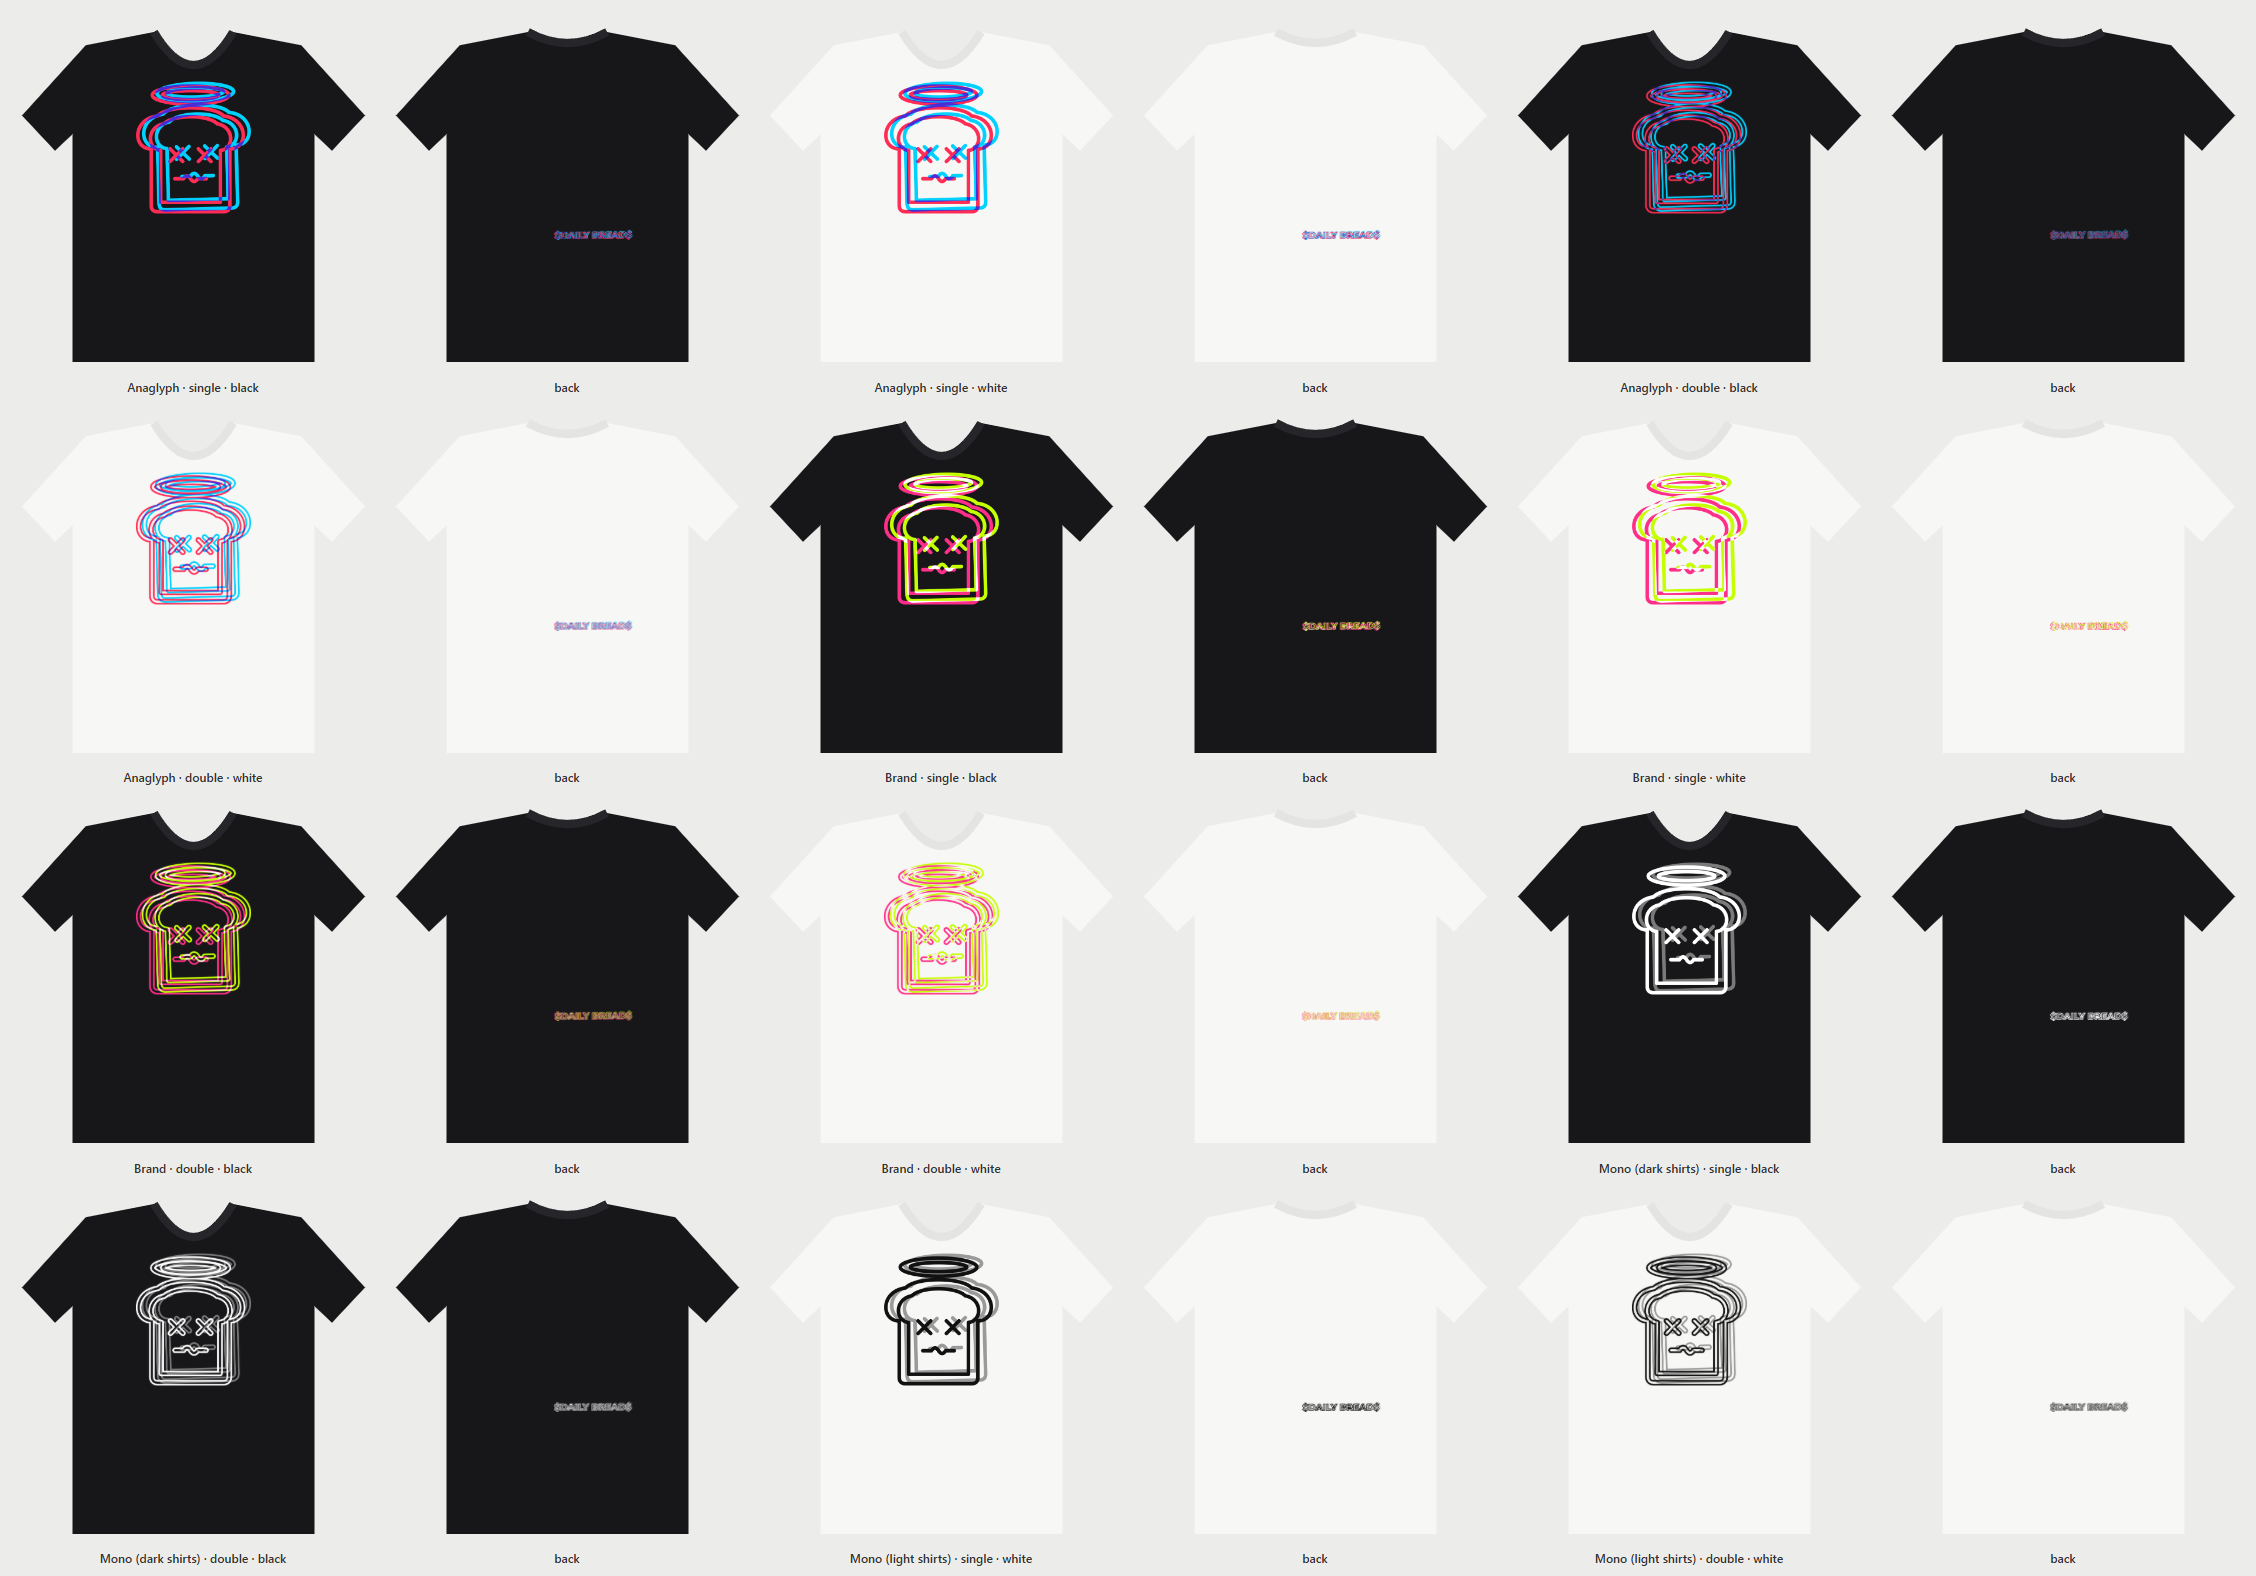
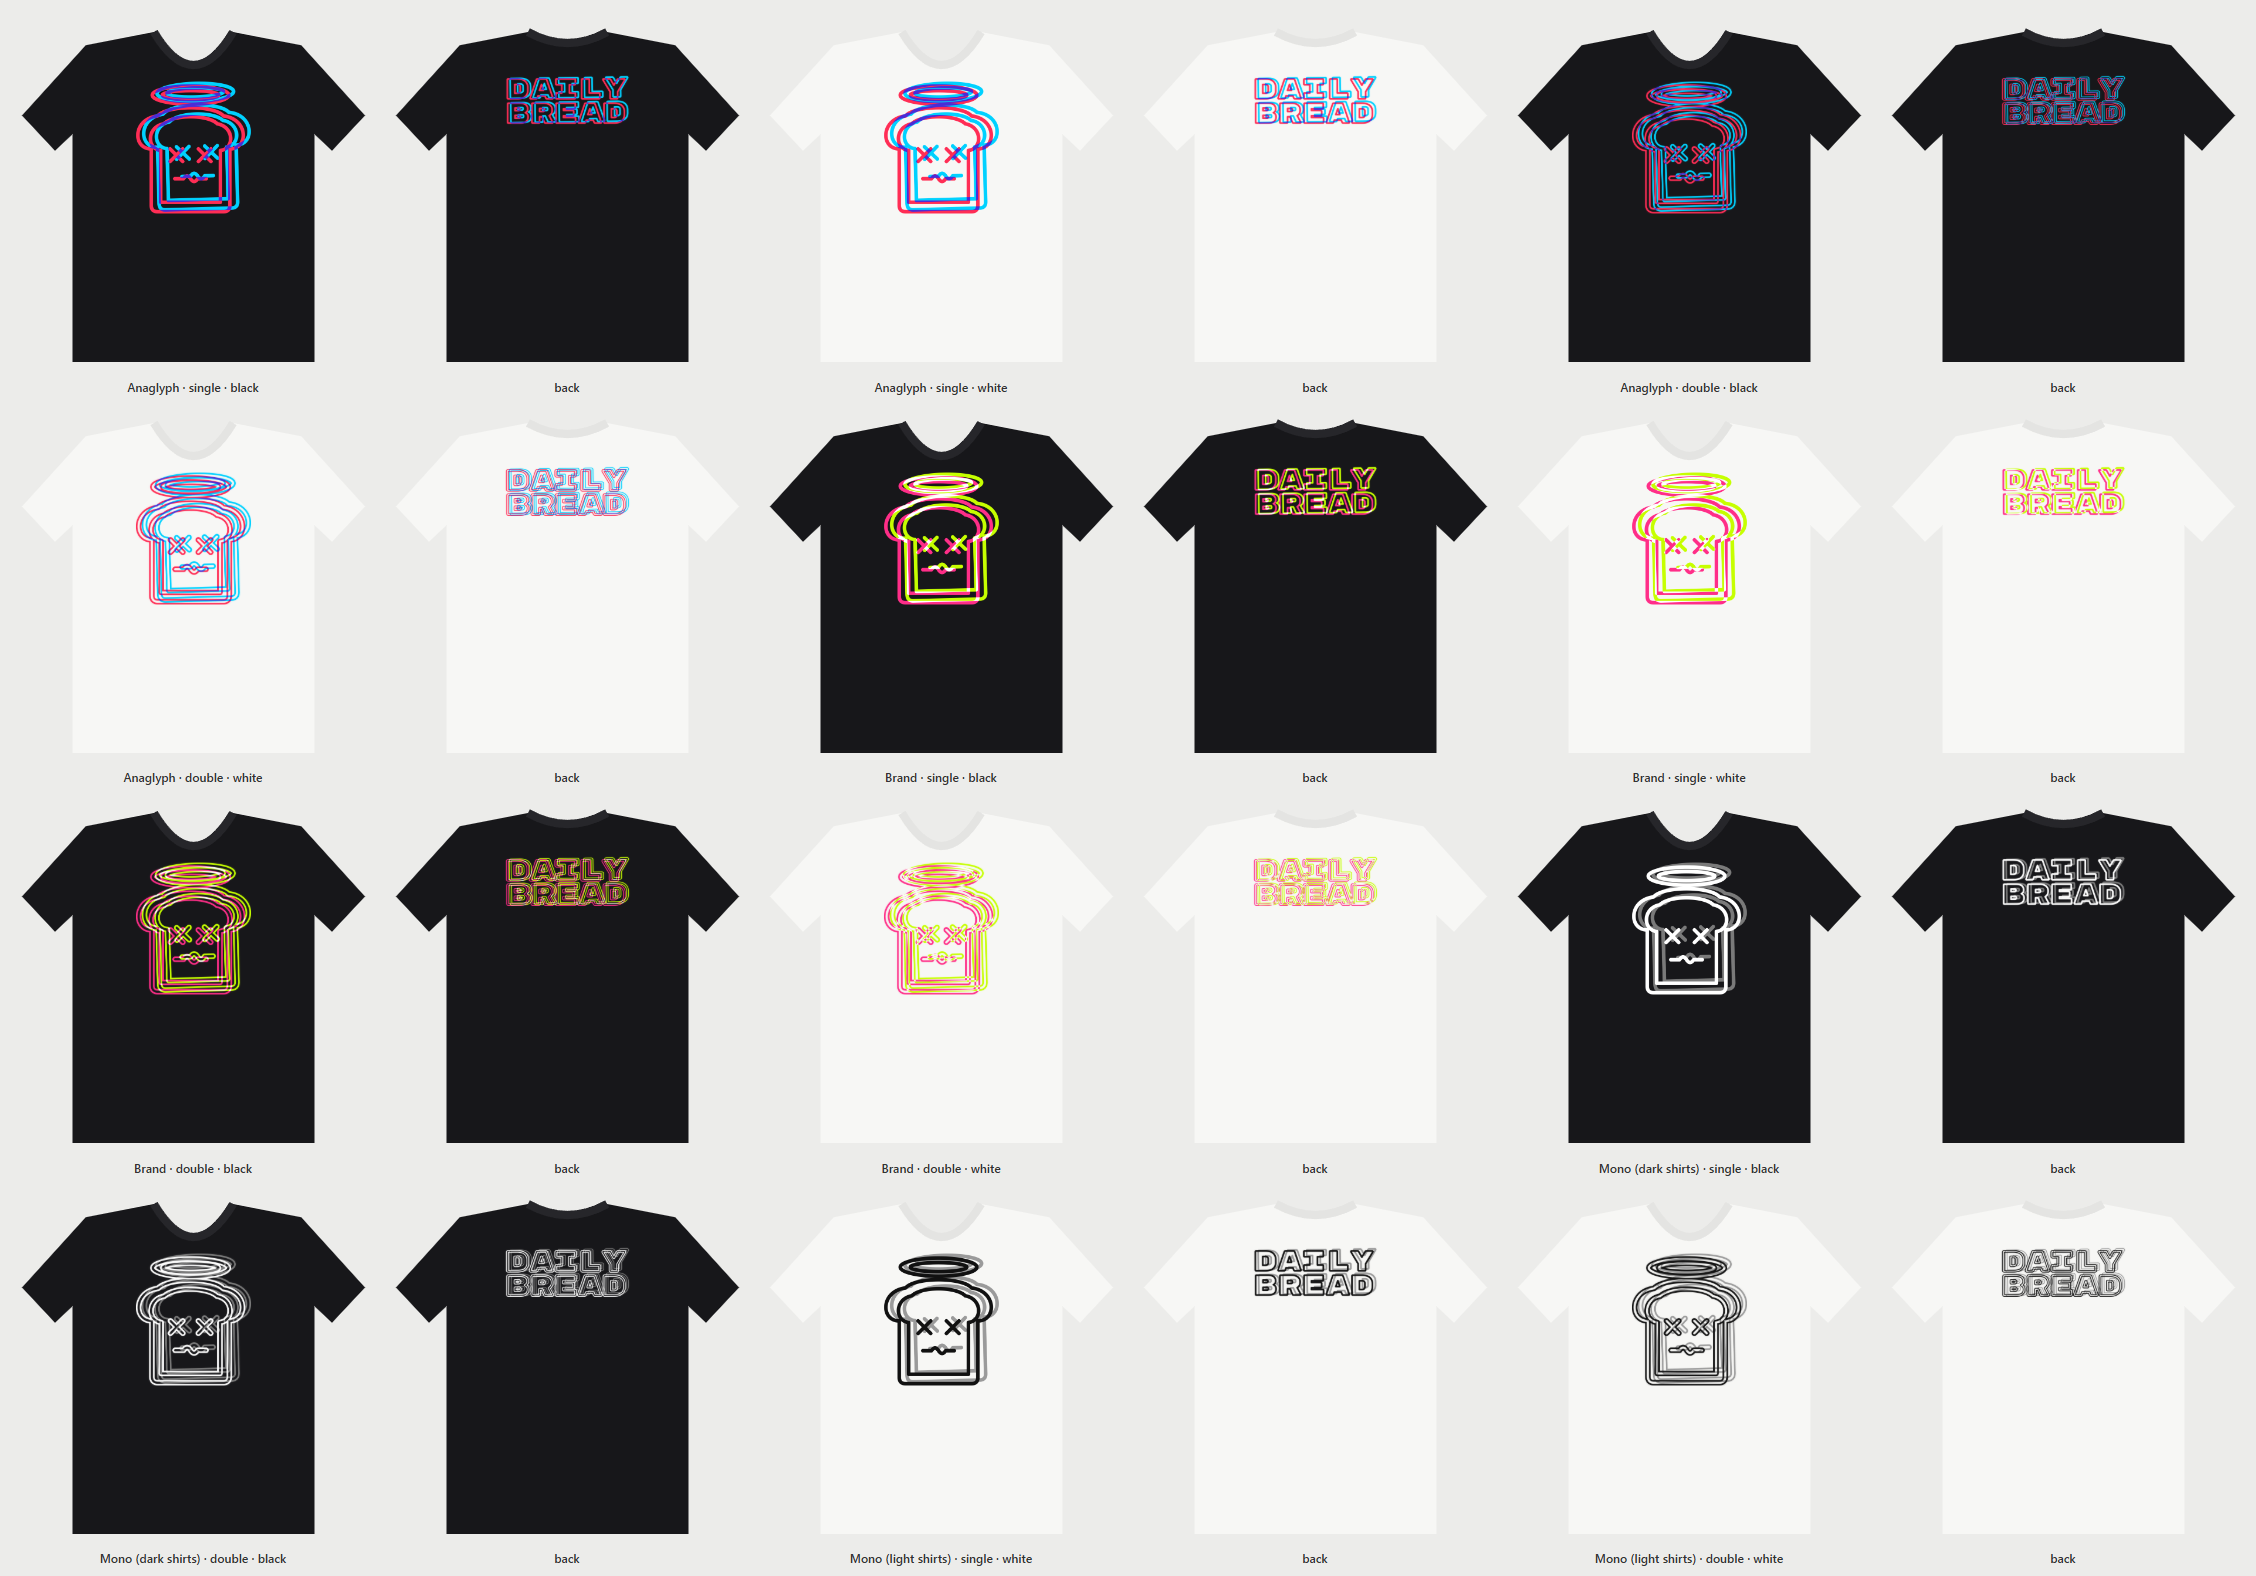
Blurry: large DAILY / BREAD block back print
In addition to the front: DAILY over BREAD in Rubik Mono One block letters as
double-vision line art (same ghost, colors and line style), about 11.1 x 4.4 in
across the upper back, for every colorway and style (back-large.png). The small
bottom-right back stays as an alternate. Notes updated.

diff --git a/tshirts/blurry/blurry.js b/tshirts/blurry/blurry.js
@@ -45,8 +45,8 @@ const svgOf = (inner, size) => `<svg xmlns="http://www.w3.org/2000/svg" viewBox=
   const { chromium } = require(process.env.PLAYWRIGHT_PATH || 'playwright');
   const browser = await chromium.launch(process.env.BROWSER_CHANNEL ? { channel: process.env.BROWSER_CHANNEL } : {});
   const page = await browser.newPage();
-  await page.setContent('<link rel="stylesheet" href="https://fonts.googleapis.com/css2?family=Montserrat:wght@800&display=block"><body></body>');
-  await page.evaluate(async () => { await document.fonts.load('800 100px "Montserrat"', '$DAILY BREAD$'); });
+  await page.setContent('<link rel="stylesheet" href="https://fonts.googleapis.com/css2?family=Montserrat:wght@800&family=Rubik+Mono+One&display=block"><body></body>');
+  await page.evaluate(async () => { await document.fonts.load('800 100px "Montserrat"', '$DAILY BREAD$'); await document.fonts.load('100px "Rubik Mono One"', 'DAILYBREAD'); });
   const root = path.join(__dirname, 'files');
   const sizes = {};
 
@@ -116,7 +116,37 @@ const svgOf = (inner, size) => `<svg xmlns="http://www.w3.org/2000/svg" viewBox=
       return { png: f.toDataURL('image/png'), w: art.width, h: art.height };
     }, { col, s, G: GHOST, DPI });
     fs.writeFileSync(path.join(out, 'back.png'), setDpi(Buffer.from(back.png.split(',')[1], 'base64'), true));
-    sizes[id] = { front: { wIn: +(front.w / DPI).toFixed(2), hIn: +(front.h / DPI).toFixed(2) }, back: { wIn: +(back.w / DPI).toFixed(2), hIn: +(back.h / DPI).toFixed(2) } };
+    // LARGE BACK (Blurry's back print): DAILY over BREAD in Rubik Mono One (a monospaced block face, so the two
+    // five-letter words make a perfectly justified block), line art with the same doubling, about 11.4 in wide,
+    // centered across the upper back with its top 1 in below the top of the 12 x 16 in back print area.
+    const large = await page.evaluate(({ col, s, G, DPI }) => {
+      const AREA_W = 12 * DPI, AREA_H = 16 * DPI, BLOCK_W = 11.4 * DPI, TOP = 1.0 * DPI;
+      const font = px => `${px}px "Rubik Mono One"`, words = ['DAILY', 'BREAD'];
+      const m = document.createElement('canvas').getContext('2d'); m.font = font(100);
+      const ink = t => { const v = m.measureText(t); return { w: v.actualBoundingBoxLeft + v.actualBoundingBoxRight, l: v.actualBoundingBoxLeft, a: v.actualBoundingBoxAscent }; };
+      const wMax = Math.max(...words.map(t => ink(t).w));
+      const px = 100 * BLOCK_W * 0.94 / wMax;          // leave room for the line and the ghost
+      const cap = ink('D').a * px / 100, gap = cap * 0.22;
+      const u = px / 60;                                 // drawing unit for lines and offsets (matches the front's look)
+      const W = Math.ceil(BLOCK_W + 30 * u), H = Math.ceil(cap * 2 + gap + 30 * u);
+      const mask = ghost => {
+        const c = document.createElement('canvas'); c.width = W; c.height = H; const x = c.getContext('2d');
+        if (ghost) { x.translate(W / 2, H / 2); x.rotate(G.rot * Math.PI / 180 * 0.5); x.translate(-W / 2 + G.dx * u, -H / 2 + G.dy * u); }
+        x.font = font(px); x.textBaseline = 'alphabetic'; x.textAlign = 'center'; x.lineJoin = 'round'; x.strokeStyle = '#fff';
+        const ys = [15 * u + cap, 15 * u + cap * 2 + gap];
+        x.lineWidth = s.w * u; words.forEach((t, i) => x.strokeText(t, W / 2, ys[i]));
+        if (s.cut) { x.globalCompositeOperation = 'destination-out'; x.lineWidth = s.cut * u; words.forEach((t, i) => x.strokeText(t, W / 2, ys[i])); }
+        return c;
+      };
+      let art = trim(compose(mask(false), mask(true), col));
+      if (art.width > BLOCK_W) { const f = BLOCK_W / art.width, r = document.createElement('canvas'); r.width = BLOCK_W; r.height = Math.round(art.height * f); r.getContext('2d').drawImage(art, 0, 0, r.width, r.height); art = r; }
+      const f = document.createElement('canvas'); f.width = AREA_W; f.height = AREA_H;
+      f.getContext('2d').drawImage(art, (AREA_W - art.width) / 2, TOP);
+      return { png: f.toDataURL('image/png'), w: art.width, h: art.height };
+    }, { col, s, G: GHOST, DPI });
+    fs.writeFileSync(path.join(out, 'back-large.png'), setDpi(Buffer.from(large.png.split(',')[1], 'base64'), true));
+    sizes[id] = { front: { wIn: +(front.w / DPI).toFixed(2), hIn: +(front.h / DPI).toFixed(2) }, back: { wIn: +(back.w / DPI).toFixed(2), hIn: +(back.h / DPI).toFixed(2) },
+      backLarge: { wIn: +(large.w / DPI).toFixed(2), hIn: +(large.h / DPI).toFixed(2) } };
   }
   fs.writeFileSync(path.join(root, 'sizes.json'), JSON.stringify(sizes, null, 2) + '\n');
 
@@ -128,7 +158,7 @@ const svgOf = (inner, size) => `<svg xmlns="http://www.w3.org/2000/svg" viewBox=
   for (const [cw, col] of Object.entries(COLORWAYS)) for (const st of Object.keys(STYLES)) for (const sn of col.shirts) {
     const id = `${cw}-${st}`, z = sizes[id].front, [c, collar] = SH[sn];
     cells.push(`<figure style="margin:0;text-align:center;font:600 12px system-ui;color:#333"><svg viewBox="-16.5 -2 33 33.5" width="${33 * PX}" height="${33.5 * PX}"><path d="${TEE}" fill="${c}"/><path d="M-3.6,0 Q0,6 3.6,0" fill="none" stroke="${collar}" stroke-width="0.75"/><image href="${href(path.join(root, id, 'front.png'))}" x="${-z.wIn / 2}" y="4.5" width="${z.wIn}" height="${z.hIn}"/></svg><figcaption>${col.name} · ${st} · ${sn}</figcaption></figure>`);
-    cells.push(`<figure style="margin:0;text-align:center;font:600 12px system-ui;color:#333"><svg viewBox="-16.5 -2 33 33.5" width="${33 * PX}" height="${33.5 * PX}"><path d="${TEE.replace('Q0,6', 'Q0,2')}" fill="${c}"/><path d="M-3.6,0 Q0,2 3.6,0" fill="none" stroke="${collar}" stroke-width="0.75"/><image href="${href(path.join(root, id, 'back.png'))}" x="-6" y="3" width="12" height="16"/></svg><figcaption>back</figcaption></figure>`);
+    cells.push(`<figure style="margin:0;text-align:center;font:600 12px system-ui;color:#333"><svg viewBox="-16.5 -2 33 33.5" width="${33 * PX}" height="${33.5 * PX}"><path d="${TEE.replace('Q0,6', 'Q0,2')}" fill="${c}"/><path d="M-3.6,0 Q0,2 3.6,0" fill="none" stroke="${collar}" stroke-width="0.75"/><image href="${href(path.join(root, id, 'back-large.png'))}" x="-6" y="3" width="12" height="16"/></svg><figcaption>back</figcaption></figure>`);
   }
   const tmp = path.join(root, '_sheet.html');
   fs.writeFileSync(tmp, `<body style="margin:0;padding:10px;background:#ececea;display:grid;grid-template-columns:repeat(6,auto);gap:6px 8px">${cells.join('')}</body>`);

diff --git a/obsidian/Coma Toast/Shirts/Blurry.md b/obsidian/Coma Toast/Shirts/Blurry.md
@@ -28,22 +28,27 @@ Part of [[Coma Toast]]. A double-vision line-art design: the **Saint** mark (mai
 ## Size and placement (go-forward chest standard)
 Bella+Canvas 3001 (Printful product 71), DTG front: about **10.45 × 12 in**, centered, top **1.5 in below the collar seam**.
 
-## Back: $Daily Bread$
+## Back: large DAILY BREAD (current back print)
+Asked for 2026-10-13: a **large back print, in addition to the front art**: **DAILY** over **BREAD** in **Rubik Mono One** (a heavy monospaced block face, so the two five-letter words make a perfectly justified block), as line art with the same double-vision ghost, colors and line style as the front. About **11.1 × 4.4 in**, centered across the upper back, its top 1 in below the top of the 12 × 16 in back print area. File: `back-large.png` (whole back area; fill it). For Blurry this replaces the small bottom-right `$Daily Bread$`, which is kept as `back.png` in case it's wanted too.
+
+## Back: small $Daily Bread$ (alternate)
 `$DAILY BREAD$` in **Montserrat ExtraBold** (the brand font) as line art with the same double-vision ghost, colors and line style; about 7.1 × 0.93 in, in the bottom-right corner of the 12 × 16 in back print area.
 
 ## Files (`files/<colorway>-<style>/`)
-- `front.png` (trimmed, 300 dpi, transparent), `back.png` (whole 12 × 16 in back area; fill it).
+- `front.png` (trimmed, 300 dpi, transparent), `back-large.png` (the large block back; whole 12 × 16 in back area, fill it), `back.png` (the small bottom-right alternate).
 - `blurry-samples.png`: every colorway and style, front and back, on the shirt colors it suits; `blurry-fronts.png`: the fronts up close.
 
 ## Printful setup
 1. **Front print:** upload `front.png`, set it about 10.45 in wide (12 in tall), center it, top 1.5 in below the collar seam.
-2. **Back print:** upload `back.png` and let it fill the area.
+2. **Back print:** upload `back-large.png` and let it fill the area.
 
 ## Regenerating
 `node tshirts/blurry/blurry.js` (needs Node and Playwright, or `playwright-core` with `PLAYWRIGHT_PATH` and `BROWSER_CHANNEL=msedge`). The ghost offset, line widths and colorways are at the top of the script.
 
 ## Change log
 - **2026-10-13 — v1:** Saint in double-vision line art, four colorways, single and double line, with the `$Daily Bread$` back.
+
+- **Large back:** DAILY / BREAD in Rubik Mono One block letters, double-vision line art, across the upper back, in addition to the front.
 
 ## Open items
 - [ ] Pick the colorway and line style.

diff --git a/obsidian/Coma Toast/Coma Toast.md b/obsidian/Coma Toast/Coma Toast.md
@@ -24,7 +24,7 @@ A plain slice of toast, knocked out: X'd-out eyes and a "Soft Pulse" heartbeat l
 | PaintShop | v10 files ready for Printful (Hot Wire, Toxic, Riot) | [[PaintShop]] |
 | Benday Logo | Women's final: Saint in Hot Pink, with ` Bread$` back. Men's (blue) waiting on mark pick | [[Benday Logo]] |
 | Argyle and Houndstooth | Argyle v2 (calmer, one outline) and houndstooth v1, Classic / Brand; waiting on pick | [[Argyle and Houndstooth]] |
-| Blurry | v1: Saint in double-vision line art, 4 colorways × single/double line; waiting on pick | [[Blurry]] |
+| Blurry | v1: Saint in double-vision line art + large DAILY / BREAD block back, 4 colorways × single/double line; waiting on pick | [[Blurry]] |
 | Looney | Rejected | [[Looney]] |
 | Desk Tee | Rejected | [[Desk Tee]] |
 | Inside label | Final: DAILY / BREAD in Montserrat outline, tall square block | [[Labels]] |
